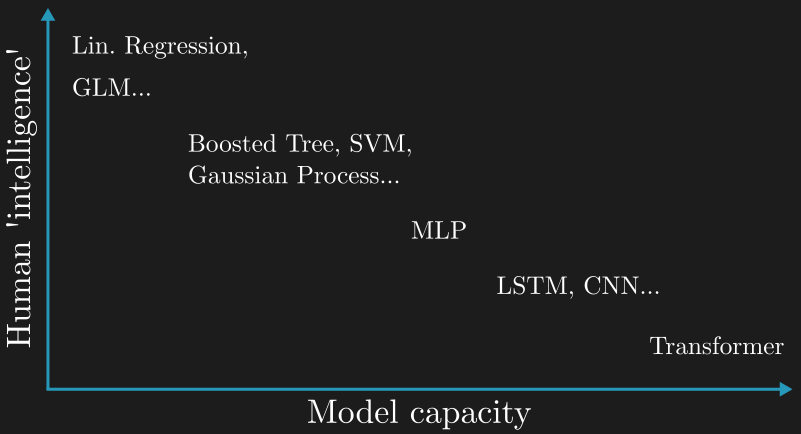
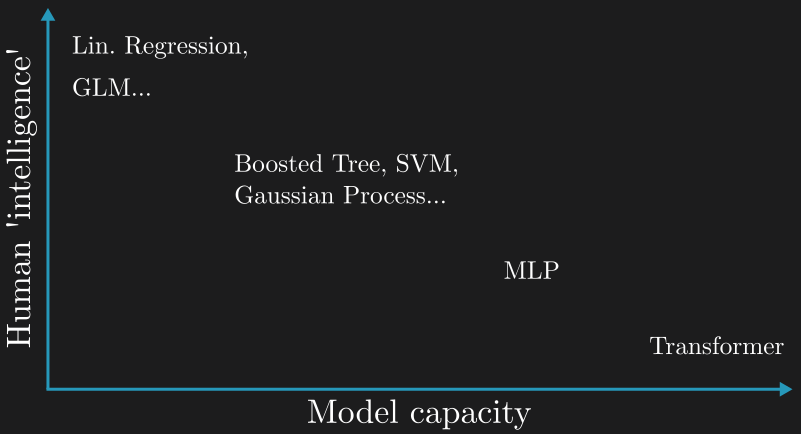
fix: remove lstms
as the conjectures about them were not quite right

Changed region(s): [[0.2185, 0.2995, 0.5618, 0.4793], [0.6242, 0.5991, 0.8115, 0.6889], [0.4994, 0.5092, 0.593, 0.5691]]

diff --git a/_posts/2022-08-28-human-vs-machine-intelligence.md b/_posts/2022-08-28-human-vs-machine-intelligence.md
@@ -37,16 +37,19 @@ In this case, we can use the more 'intelligent' models, i.e. ones with a higher 
 The models in the second category. These models seek to reduce the required human 'intelligence', specifically the exact model family and to some extent features, by
 some smoothness or local convexity assumptions about the underlying function. These models tend to scale with data to some extent, but they suffer from having a small data set, compared to the linear models.
 
-Going up the model 'intelligence' scale, we see that the required human 'intelligence' decreases along with the assumptions
-LSTMs and CNNs assume some local dependence of the input features, whereas MLP drops this assumption and treats every feature equally.
-It is also important to note that LSTMs and CNNs contradict our assumption above, about higher capacity models requiring more data.
-This is mostly due to the assumptions they make, which work as inductive biases for the appropriate problems.
-Although they have a higher capacity compared to an MLP with the same number of parameters, we cannot make any claims about the amount of data they require.
-This strongly depends on the problem that we need. 
+Going up the model 'intelligence' scale, we see that the required human 'intelligence' decreases along with the assumptions. Multi layer perceptrons (MLP) drops most
+of the assumptions and increase the capacity greatly compared to the previous group of methods. Nevertheless, the requirements about data as well as other difficulties in training 
+increase also greatly. To overcome some of these problems, various inductive biases are used in structures. Residual networks (ResNet) were revolutionary for their times
+and they allowed training much deeper models. The skip connections are still used in many architectures. Moreover, long-short term memory (LSTM)  and convolutional neural networks (CNN) 
+exploit the locality assumptions about their inputs; they assume that the features that are close to one another are more related to each other. This allows them to learn more meaningful representations
+compared to feed-forward architectures. Nonetheless, all of these architectures are closely related to MLPs, as all latent dimensions are combined with each others.
 
 Finally, there are transformers, which deserve their own category. Most of the current work about large language models use transformers.
-Their success influenced other domains such as vision to try them out too. However, they require quite a lot of data. This is less of a problem for the language domain, but more of a problem for other domains such as computer vision.
-Not only the amount of data, but also the amount of compute makes them quite expensive endeavors. Nonetheless, they achieve state-of-the-art results for those who can afford to use them.
+Their success influenced other domains such as vision to try them out too. They drop the inductive biases, introduced by humans through LSTMs and CNNs. Instead, they
+try to learn their own inductive biases through the attention mechanism; they neither assume every input feature to be related to every other one as in feed-forward networks,
+nor they require a locality assumption between the related and relevant inputs. Thus, they reduce the human input compared to previous methods and instead gain the intelligence in a more self-supervised way, even for supervised tasks.
+However, they require quite a lot of data. This is less of a problem for the language domain, but more of a problem for other domains such as computer vision or tabular data sets.
+Not only the amount of data, but also the amount of compute makes them quite expensive endeavors. Nonetheless, they often achieve state-of-the-art results for those who can afford to use them.
 Moreover, they seem to enable a better scaling compared to the previous frameworks.
 
 ### So what?
